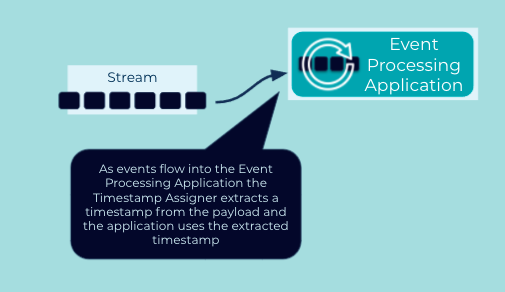
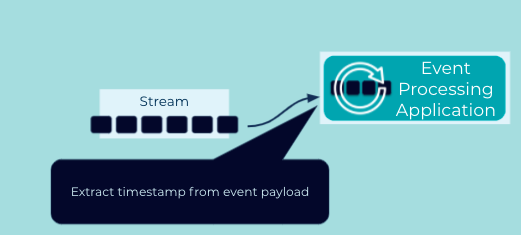
updates per comments

diff --git a/docs/stream-processing/timestamp-assigner.md b/docs/stream-processing/timestamp-assigner.md
@@ -1,18 +1,20 @@
 # Timestamp Assigner
 
+Consistent time semantics are of particular importance in stream processing. Many operations in an [Event Processor](TODO: link) are dependent on time, such as joins, aggregations when computed over a window of time (e.g., 5-minute averages), and the handling out-of-order and "late" data. In many systems, developers have the choice between different variants of time for an event: (1) event-time, which captures the time at which an event was originally created by its [Event Source](TODO: link), (2) ingestion-time, which captures the time an event was received on the event stream in an [Event Streaming Platform](TODO: link), and (3) wallclock-time or processing-time, which is the time at which a downstream [Event Processor](TODO: link) happens to process the event (which can be milliseconds, hours, months, etc. after event-time) . Depending on the use case, developers need to pick one variant over the others.
+
 ## Problem
 
-Timestamps are a critical component of stream processing framework as they impact processing order and will drive the behavior of stateful operations such as joins or windowed aggregations.  Depending on the use case it may be desired to extract a timestamp embedded in the event payload vs. using a timestamp associated with the event itself.  Event timestamps are usually assigned by the stream processing application during the ingestion phase.
+How do I extract the timestamp embedded in the event content?
 
 ## Solution Pattern
 
 ![timestamp-assigner](../img/timestamp-assigner.png)
 
-Implement timestamp-extractor in the event processing application that understands the structure of the event payload and knows which field to extract to use for the timestamp.  Since the event processing application will most likely use a long datatype to represent the timestamp and the field could be stored as a long value or a logical date type the timestamp-extractor implementation should convert the extracted value to a long before returning it to the event processing application.
+Implement a timestamp-extractor in the event processing application that understands the structure of the event payload and knows which field to extract to use for the timestamp.  Since the event processing application will most likely use a `Long` datatype to represent the timestamp and the field could be stored as a `Long` value or a logical `Date` type the timestamp-extractor implementation should convert the extracted value to a `Long` before returning it to the event processing application.
 
-## Example Implementation
+## Implementation
 
-Every record in ksqlDB has system-column named `ROWTIME` representing the timestamp for the event.  The `ROWTIME` column gets the timestamp from the underlying `ConsumerRecord`.  To use a timestamp in the event payload itself you can add a `WITH(TIMESTAMP='some-field')` which ksqlDB will then get the timestamp from the specified field on the record.
+Every record in ksqlDB has system-column named `ROWTIME` representing the timestamp for the event.  The `ROWTIME` column gets the timestamp from the underlying `ConsumerRecord`.  To use a timestamp in the event payload itself you can add a `WITH(TIMESTAMP='some-field')` which instructs ksqlDB to then get the timestamp from the specified field in the record.
 
 ```
 CREATE STREAM MY_EVENT_STREM
@@ -23,8 +25,9 @@ CREATE STREAM MY_EVENT_STREM
 
 ## Considerations
 
-When using the `WITH(TIMESTAMP='some-field)` clause the underlying field needs to be a type of long (64-bit) representing a Unix epoch time in milliseconds.  If the event stores the timestamp as a Date or Instant, you'll need to implement a user-defined-function (UDF) that can covert the field from its stored format to the required long one.
+When using the `WITH(TIMESTAMP='some-field)` clause the underlying field needs to be a type of `Long` (64-bit) representing a Unix epoch time in milliseconds.  If the event stores the timestamp as a `Date` or `Instant`, you'll need to implement a user-defined-function (UDF) that can covert the field from its stored format to the required `Long` one.
 
 ## References
 
 * [Timestamp assignment in ksqlDB](https://docs.ksqldb.io/en/latest/concepts/time-and-windows-in-ksqldb-queries/#timestamp-assignment)
+* [Kafka Tutorials]( https://kafka-tutorials.confluent.io/time-concepts/ksql.html): Time concepts
